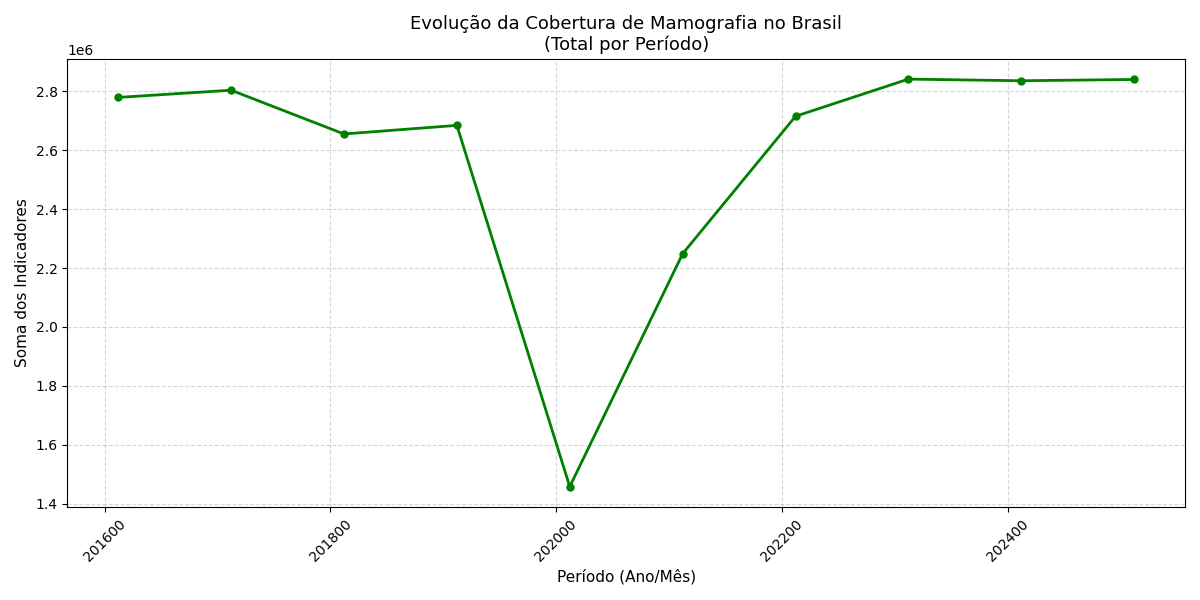
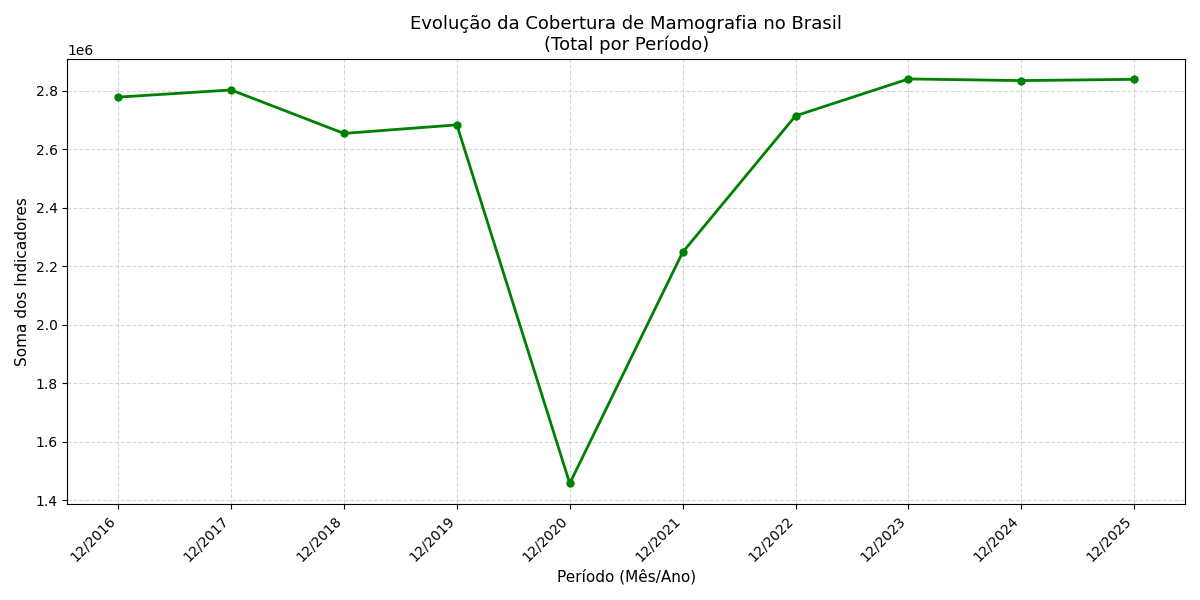
TrabalhoIII

diff --git a/TrabalhoIII/trabalho.py b/TrabalhoIII/trabalho.py
@@ -1,0 +1,312 @@
+import pandas as pd
+import mysql.connector
+from mysql.connector import Error
+import matplotlib.pyplot as plt
+import os
+
+
+def coletar_dados(caminho_csv):
+    print("Pegando arquivo mamografia.csv")
+    
+    if not os.path.exists(caminho_csv):
+        print(f"Arquivo '{caminho_csv}' não encontrado.")
+        return None
+
+    try:
+        df = pd.read_csv(caminho_csv, sep=',', encoding='utf-8')
+        print(f"Arquivo deu bom")
+        print(f"    Registros encontrados: {len(df)}")
+        print(f"    Colunas disponíveis: {list(df.columns)}\n")
+        return df
+
+    except Exception as e:
+        print(f"Não foi possível ler o arquivo: {e}")
+        return None
+
+
+def tratar_dados(df):
+    print("Limpando dados com o pandas")
+
+    colunas_interesse = [
+        'co_anomes',
+        'co_ibge',
+        'no_municipio',
+        'sg_uf',
+        'no_regiao_brasil',
+        'vl_indicador_calculado_mun'
+    ]
+
+    colunas_ausentes = [c for c in colunas_interesse if c not in df.columns]
+    if colunas_ausentes:
+        print(f"Colunas não encontradas no CSV: {colunas_ausentes}")
+        return None
+
+    df_limpo = df[colunas_interesse].copy()
+
+    print(f"Registros antes da limpeza: {len(df_limpo)}")
+
+    df_limpo = df_limpo.dropna(subset=['co_ibge'])
+
+    df_limpo['vl_indicador_calculado_mun'] = (
+        df_limpo['vl_indicador_calculado_mun'].fillna(0)
+    )
+
+    df_limpo['no_municipio'] = df_limpo['no_municipio'].str.strip()
+    df_limpo['sg_uf'] = df_limpo['sg_uf'].str.strip()
+    df_limpo['no_regiao_brasil'] = df_limpo['no_regiao_brasil'].str.strip()
+
+    df_limpo['co_anomes'] = df_limpo['co_anomes'].astype(int)
+    df_limpo['co_ibge'] = df_limpo['co_ibge'].astype(int)
+    df_limpo['vl_indicador_calculado_mun'] = (
+        df_limpo['vl_indicador_calculado_mun'].astype(float)
+    )
+
+    print(f"Registros após a limpeza:  {len(df_limpo)}")
+    print("\nResumo do indicador de mamografia:")
+    print(f"  Média:   {df_limpo['vl_indicador_calculado_mun'].mean():.2f}")
+    print(f"  Mínimo:  {df_limpo['vl_indicador_calculado_mun'].min():.2f}")
+    print(f"  Máximo:  {df_limpo['vl_indicador_calculado_mun'].max():.2f}")
+    print()
+
+    return df_limpo
+
+
+def conectar_banco():
+    print("Conectando ao banco de dados MySQL")
+
+    config = {
+        'host': 'localhost',
+        'user': 'root',
+        'password': '1234',
+        'database': 'projeto_saude'
+    }
+
+    try:
+        conexao = mysql.connector.connect(**config)
+
+        if conexao.is_connected():
+            print(f"Conectado ao MySQl")
+            print(f"     Banco de dados: {config['database']}\n")
+            return conexao
+
+    except Error as e:
+        print(f"Falha ao conectar ao MySQL: {e}")
+        return None
+
+
+def criar_tabela(conexao):
+    cursor = conexao.cursor()
+
+    query = """
+    CREATE TABLE IF NOT EXISTS indicadores_mamografia (
+        co_anomes       INT          NOT NULL,
+        co_ibge         INT          NOT NULL,
+        no_municipio    VARCHAR(100) NOT NULL,
+        sg_uf           CHAR(2)      NOT NULL,
+        no_regiao       VARCHAR(50)  NOT NULL,
+        valor_indicador FLOAT        NOT NULL DEFAULT 0,
+        PRIMARY KEY (co_anomes, co_ibge)
+    );
+    """
+
+    try:
+        cursor.execute(query)
+        conexao.commit()
+        print("Tabela 'indicadores_mamografia' criada.\n")
+    except Error as e:
+        print(f"Falha ao criar tabela: {e}")
+    finally:
+        cursor.close()
+
+
+def inserir_dados(conexao, df):
+    print("inserindo dados no banco de dados")
+
+    cursor = conexao.cursor()
+
+    query = """
+    INSERT INTO indicadores_mamografia
+        (co_anomes, co_ibge, no_municipio, sg_uf, no_regiao, valor_indicador)
+    VALUES
+        (%s, %s, %s, %s, %s, %s)
+    ON DUPLICATE KEY UPDATE
+        no_municipio    = VALUES(no_municipio),
+        sg_uf           = VALUES(sg_uf),
+        no_regiao       = VALUES(no_regiao),
+        valor_indicador = VALUES(valor_indicador);
+    """
+
+    inseridos = 0
+
+    try:
+        for _, row in df.iterrows():
+            valores = (
+                int(row['co_anomes']),
+                int(row['co_ibge']),
+                str(row['no_municipio']),
+                str(row['sg_uf']),
+                str(row['no_regiao_brasil']),
+                float(row['vl_indicador_calculado_mun'])
+            )
+            cursor.execute(query, valores)
+            inseridos += 1
+
+            if inseridos % 1000 == 0:
+                print(f"  Progresso: {inseridos}/{len(df)} registros processados")
+
+        conexao.commit()
+        print(f"\n{inseridos} registros inseridos\n")
+
+    except Error as e:
+        print(f"\nErro na inserção: {e}")
+        print(f"      rollback")
+        conexao.rollback()
+
+    finally:
+        cursor.close()
+
+
+def consultar_dados_banco(conexao):
+    print("Consultando dados do banco para analise")
+
+    query = "SELECT * FROM indicadores_mamografia;"
+
+    try:
+        df_banco = pd.read_sql(query, conexao)
+        print(f"{len(df_banco)} registros recuperados do banco.\n")
+        return df_banco
+    except Error as e:
+        print(f"Erro ao consultar banco: {e}")
+        return None
+
+
+def gerar_graficos(df):
+    print("Gerando gráficos de análise")
+
+    cores = ['#4C72B0', '#55A868', '#C44E52', '#8172B2', '#CCB974']
+
+    plt.figure(figsize=(10, 6))
+
+    analise_regiao = (
+        df.groupby('no_regiao_brasil')['vl_indicador_calculado_mun']
+        .sum()
+        .sort_values(ascending=False)
+    )
+
+    analise_regiao.plot(kind='bar', color=cores[:len(analise_regiao)], edgecolor='black')
+
+    plt.title('Cobertura de Mamografia por Região do Brasil\n(Soma Acumulada dos Indicadores)', fontsize=13)
+    plt.xlabel('Região', fontsize=11)
+    plt.ylabel('Soma dos Indicadores', fontsize=11)
+    plt.xticks(rotation=30, ha='right')
+    plt.grid(axis='y', linestyle='--', alpha=0.5)
+    plt.tight_layout()
+    plt.savefig('grafico_regioes.png', dpi=100)
+    plt.close()
+    print("Gráfico 1 salvo: 'grafico_regioes.png'")
+
+    plt.figure(figsize=(12, 6))
+
+    evolucao = (
+        df.groupby('co_anomes')['vl_indicador_calculado_mun']
+        .sum()
+    )
+
+    rotulos = [
+    f"{str(x)[4:6]}/{str(x)[:4]}" for x in evolucao.index
+]
+
+    plt.plot(range(len(evolucao)), evolucao.values, marker='o', color='green', linewidth=2, markersize=5)
+    plt.xticks(ticks=range(len(evolucao)), labels=rotulos, rotation=45, ha='right')
+
+    plt.title('Evolução da Cobertura de Mamografia no Brasil\n(Total por Período)', fontsize=13)
+    plt.xlabel('Período (Mês/Ano)', fontsize=11)
+    plt.ylabel('Soma dos Indicadores', fontsize=11)
+    plt.grid(True, linestyle='--', alpha=0.5)
+    plt.tight_layout()
+    plt.savefig('grafico_evolucao.png', dpi=100)
+    plt.close()
+    print("Gráfico 2 salvo: 'grafico_evolucao.png'")
+
+    plt.figure(figsize=(8, 8))
+
+    analise_regiao.plot(
+        kind='pie',
+        autopct='%1.1f%%',
+        colors=cores[:len(analise_regiao)],
+        startangle=90,
+        wedgeprops={'edgecolor': 'white', 'linewidth': 1.5}
+    )
+
+    plt.title('Distribuição Percentual de Mamografias\npor Região do Brasil', fontsize=13)
+    plt.ylabel('')
+    plt.tight_layout()
+    plt.savefig('grafico_pizza.png', dpi=100)
+    plt.close()
+    print("Gráfico 3 salvo: 'grafico_pizza.png'\n")
+
+
+def exibir_estatisticas(df):
+    print("RESUMO ESTATÍSTICO DOS DADOS")
+
+    resumo = (
+        df.groupby('no_regiao_brasil')['vl_indicador_calculado_mun']
+        .agg(
+            Total='sum',
+            Media='mean',
+            Minimo='min',
+            Maximo='max',
+            Municipios='count'
+        )
+        .round(2)
+        .sort_values('Total', ascending=False)
+    )
+
+    print(resumo.to_string())
+    print()
+
+
+def explicar_automacao():
+    print("cron:")
+    print("  crontab -e no  terminal")
+    print("  0 8 * * * /usr/bin/python3 /caminho/projeto_mamografia.py")
+
+if __name__ == "__main__":
+
+    print(" Mamografia TrabalhoIII")
+
+    ARQUIVO_CSV = "mamografia.csv"
+
+    dados_brutos = coletar_dados(ARQUIVO_CSV)
+
+    if dados_brutos is None:
+        print("Erro dados csv")
+        exit(1)
+
+    dados_processados = tratar_dados(dados_brutos)
+
+    if dados_processados is None:
+        print("Erro no processamento dos dados")
+        exit(1)
+
+    exibir_estatisticas(dados_processados)
+
+    conexao = conectar_banco()
+
+    if conexao and conexao.is_connected():
+        criar_tabela(conexao)
+        inserir_dados(conexao, dados_processados)
+        conexao.close()
+        print("Conexão com o banco encerrada\n")
+    else:
+        print("Graficos gerados pelo csv\n")
+
+    gerar_graficos(dados_processados)
+
+    explicar_automacao()
+
+    print("\nArquivos gerados:")
+    print("  - grafico_regioes.png  (barras por região)")
+    print("  - grafico_evolucao.png (linha temporal)")
+    print("  - grafico_pizza.png    (distribuição por região)")
+    print()
